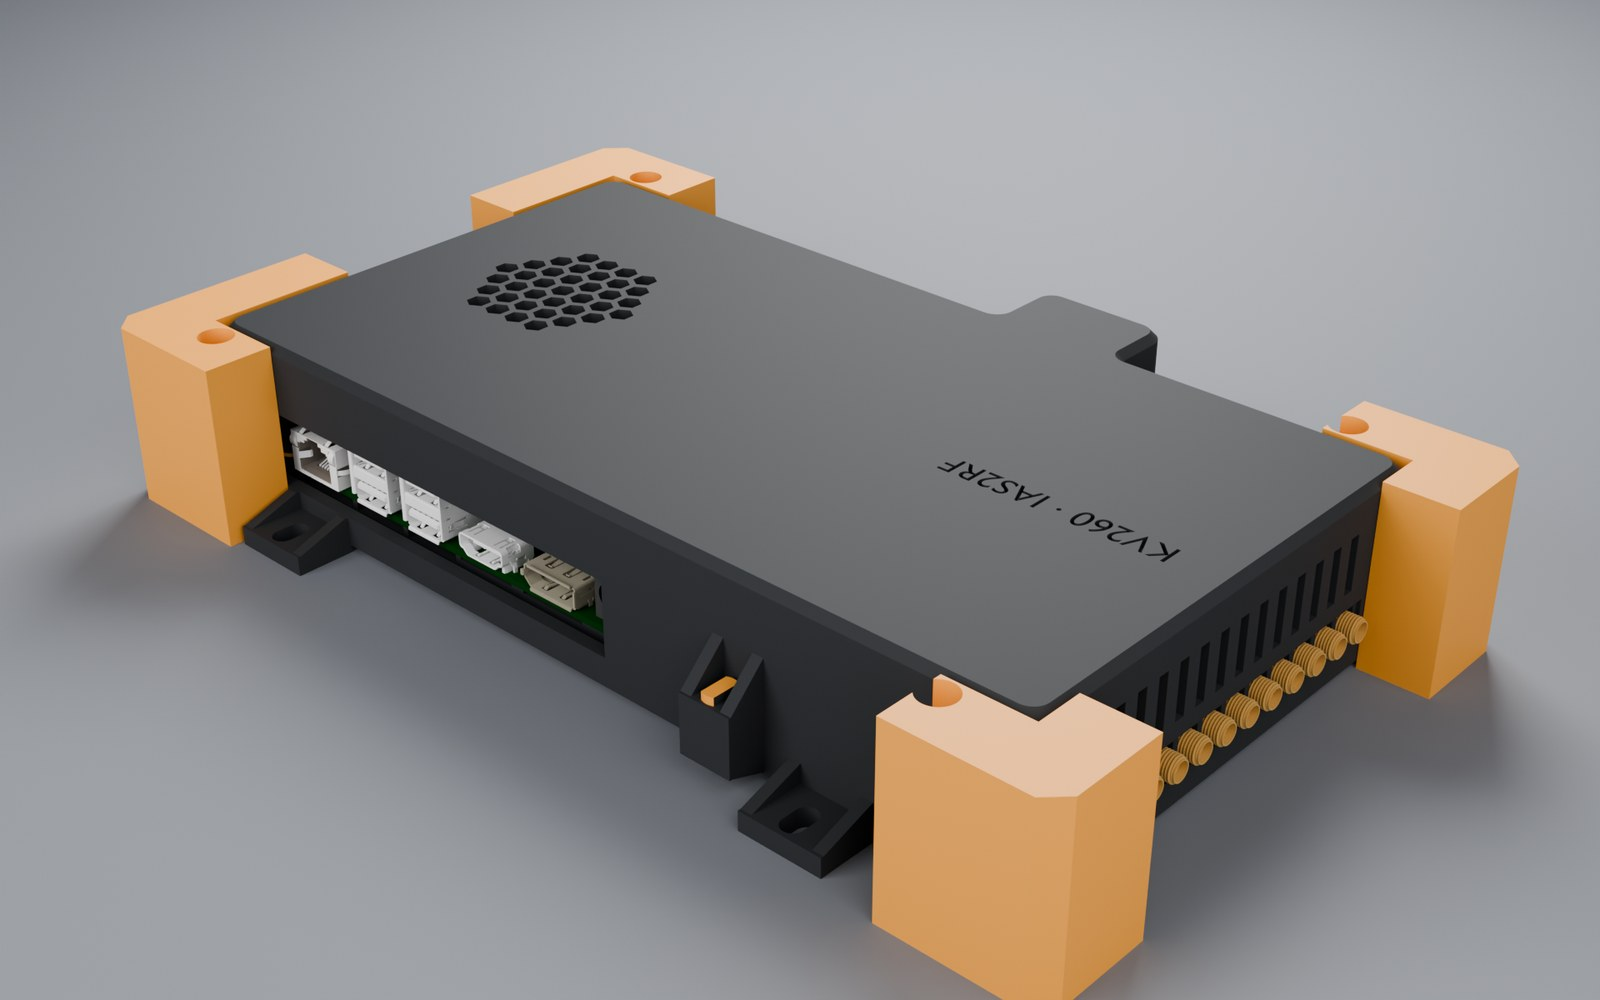
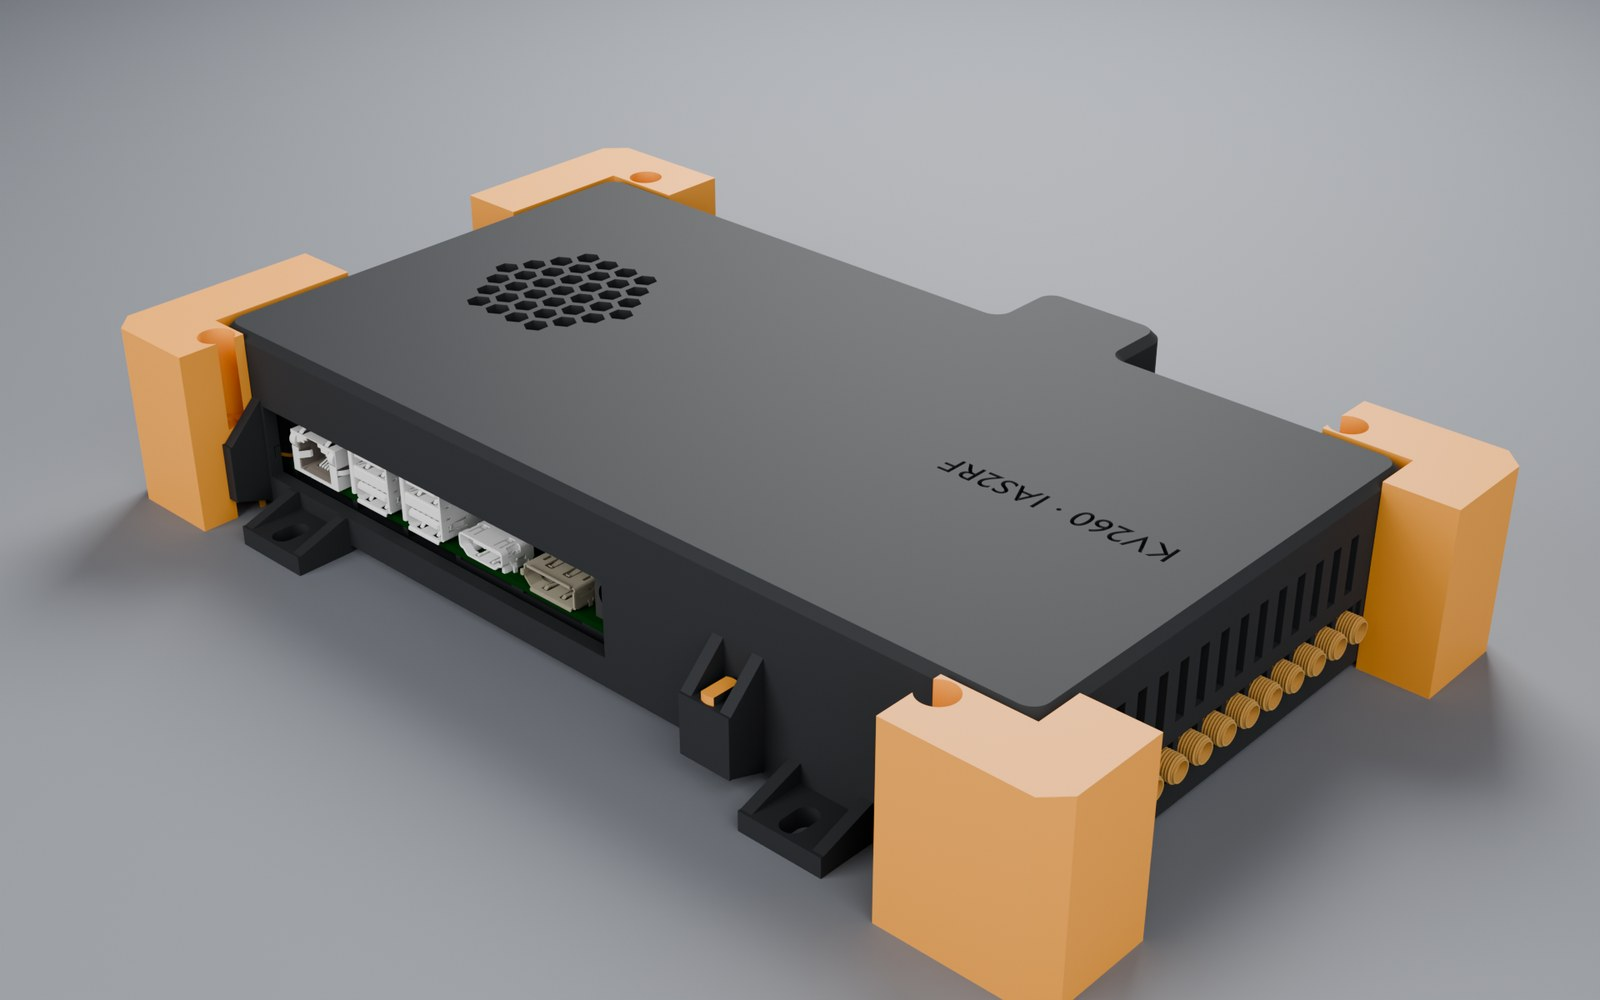
mech: KV260-side render; right-rear bumper kept clear of the KV260's RJ45
- render_case.py: new 'kria' view of the rear wall with the KV260's connectors.
- build_case.py: each bumper arm along the front/rear wall stops 4 mm short of
  that wall's openings (right-rear arm 22 -> 11.3 mm); the old one half covered
  the RJ45 opening. case_bumper_rback.stl re-exported, renders refreshed.
- .gitignore: _scratch/ (board work copies).

Changed region(s): [[0.0938, 0.341, 0.1875, 0.558]]

diff --git a/_work/mech/build_case.py b/_work/mech/build_case.py
@@ -536,6 +536,13 @@ for sx, xc in (("L", XL), ("R", XR)):
         u = -1 if sx == "L" else 1                 # outwards in X
         v = -1 if sy == "front" else 1             # outwards in Y
         g, T, A, S = BUMP_GAP, BUMP, BUMP_ARM, side_lim[(sx, sy)]
+        # keep the arm along the front/rear wall 4 mm clear of that wall's connector openings (13 Nov: the
+        # right-rear bumper half covered the KV260's RJ45, seen in the new KV260-side render)
+        for x0, x1, _z0, _z1 in merged(rear if sy == "back" else front):
+            lim = (xc - x1 - 4.0) if sx == "R" else (x0 - xc - 4.0)
+            if lim < A:
+                A = lim
+        print(f"bumper {sx}{sy}: arm {A:.1f} mm")
         # L outline in local (outwards-x, outwards-y) coordinates, the outer corner chamfered
         loc = [(g, -S), (T, -S), (T, T - BUMP_CH), (T - BUMP_CH, T), (-A, T), (-A, g), (g, g)]
         ring = [(xc + u * a, yc + v * b) for a, b in loc]

diff --git a/_work/mech/render_case.py b/_work/mech/render_case.py
@@ -200,6 +200,7 @@ VIEWS = {   # name: (target mm, camera mm, lens mm)
     "lid":         ((8, 45, 0), (250, -300, 330), 50),
     "section":     ((5, 47, -2), (110, -300, 75), 40),
     "sma":         ((-112, 50, 3), (-260, -60, 70), 55),
+    "kria":        ((55, 118, 4), (170, 400, 95), 50),
 }
 os.makedirs(os.path.join(ROOT, "docs", "img"), exist_ok=True)
 for v in views:

diff --git a/docs/ENCLOSURE.md b/docs/ENCLOSURE.md
@@ -13,7 +13,9 @@ protect the corners. Every board rests on a honeycomb or on a clamp post with a 
 | ![open](img/case_open.jpg) | ![section](img/case_section.jpg) |
 | ![tray](img/case_tray.jpg) | ![lid, inside](img/case_lid.jpg) |
 
-![SMA side](img/case_sma.jpg)
+| | |
+|---|---|
+| ![KV260 side: its connectors](img/case_kria.jpg) | ![SMA side](img/case_sma.jpg) |
 
 ---
 
@@ -77,7 +79,9 @@ and the resins it prints lose most of their stiffness at 70 °C (§4).
 - **Fitting.** Slide it on from the front or back. The lug's own M4 screw goes through it, so it cannot come
   off.
 - **Why.** §5 shows they are what makes a 1 m drop survivable.
-- **Clearance.** They stay clear of the SMA band and the side vents.
+- **Clearance.** They stay clear of the SMA band, the side vents and every connector opening: each arm along the
+  front or rear wall stops 4 mm short of that wall's openings. The right-rear one is therefore shorter (11.3 mm
+  instead of 22 mm), so the KV260's RJ45 plug goes in freely (13 Nov, found in the KV260-side render).
 
 ### 3.3 In the vehicle
 

diff --git a/README.md b/README.md
@@ -382,6 +382,8 @@ play. Optional TPU 95A corner bumpers are for handling. It prints on a Bambu A1 
 | ![Open](docs/img/case_open.jpg) | ![Section](docs/img/case_section.jpg) |
 | **The tray: honeycomb, posts, pockets** | **The lid from inside: clamp posts and pads** |
 | ![Tray](docs/img/case_tray.jpg) | ![Lid](docs/img/case_lid.jpg) |
+| **The KV260 side: its connectors through the rear opening** | **The SMA side** |
+| ![KV260 side](docs/img/case_kria.jpg) | ![SMA side](docs/img/case_sma.jpg) |
 
 CalculiX FEA of the case with the boards in it, per material, at 23 °C and 70 °C:
 - first mode;
